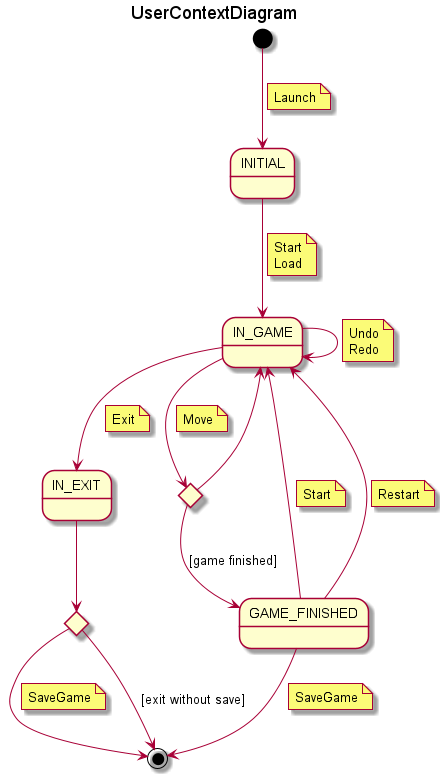
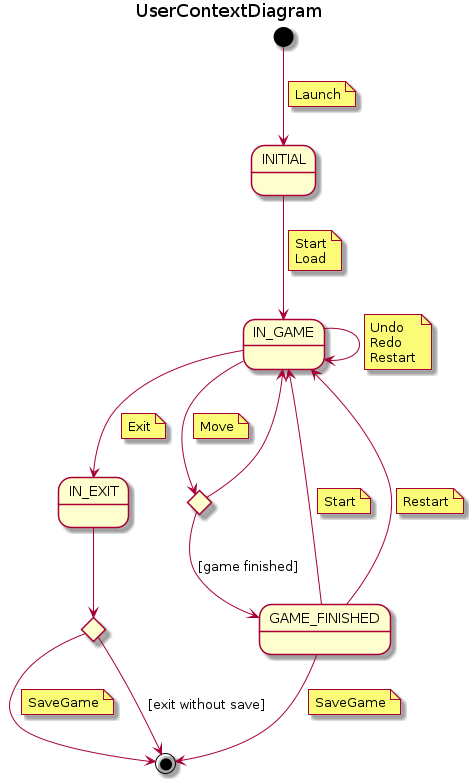
exit colab

diff --git a/docs/README.md b/docs/README.md
@@ -11,6 +11,7 @@
       - [Undo](#undo-use-case-specification)
       - [Redo](#redo-use-case-specification)
       - [Exit](#exit-use-case-specification)
+      - [Restart](#restart-use-case-specification)
       - [SaveGame](#savegame-use-case-specification)
     - [User](#user-use-cases)
       - [Start](#start-use-case-specification)
@@ -28,6 +29,10 @@
     - [Player](#player-use-cases-collaboration)
       - [Launch](#launch-colaboration)
       - [Move](#move-colaboration)
+      - [Move Seq](#move-sequence)
+      - [Undo](#undo-colaboration)
+      - [Redo](#undo-colaboration)
+      - [Exit](#exit-colaboration)
     - [User](#user-use-cases-collaboration)
       - [Start Collaboration](#start-colaboration)
     - [AiTrainer](#aitrainer-use-cases-collaboration)
@@ -63,6 +68,9 @@
 ![Redo Specification](output/use-cases/specification/RedoUseCaseSpecification.png)
 ### Exit use case specification
 ![Exit Specification](output/use-cases/specification/ExitUseCaseSpecification.png)
+![Redo Specification](output/use-cases/specification/RedoUseCaseSpecification.png)
+## Restart use case specification
+![Restart Specification](output/use-cases/specification/RestartUseCaseSpecification.png)
 ### SaveGame use case specification
 ![SaveGame Specification](output/use-cases/specification/SaveGameUseCaseSpecification.png)
 
@@ -275,11 +283,22 @@ Option? [1-2]: 1
 ### Move Collaboration
 ![move-colab](output/analysis/use-cases/MoveCollaborationDiagram.png)
 
+### Move Sequence
+![move-sequence](output/analysis/use-cases/MoveSequence.png)
+
+
+### Undo Collaboration
+![undo-colab](output/analysis/use-cases/UndoCollaborationDiagram.png)
+
+### Redo Collaboration
+![redo-colab](output/analysis/use-cases/RedoCollaborationDiagram.png)
+### Exit Collaboration
+![exit-colab](output/analysis/use-cases/ExitCollaborationDiagram.png)
+
 
 ## User Use Cases collaboration
 ### Start Colaboration
 ![start-colab](output/analysis/use-cases/StartCollaborationDiagram.png)
-
 
 ## AITrainer Use Cases collaboration
 
@@ -287,7 +306,6 @@ Option? [1-2]: 1
 ![show-current-config-colab](output/analysis/use-cases/ShowCurrentConfigCollaborationDiagram.png)
 ### EditConfig Collaboration
 ![edit-config-colab](output/analysis/use-cases/EditConfigCollaborationDiagram.png)
-
 
 
 
